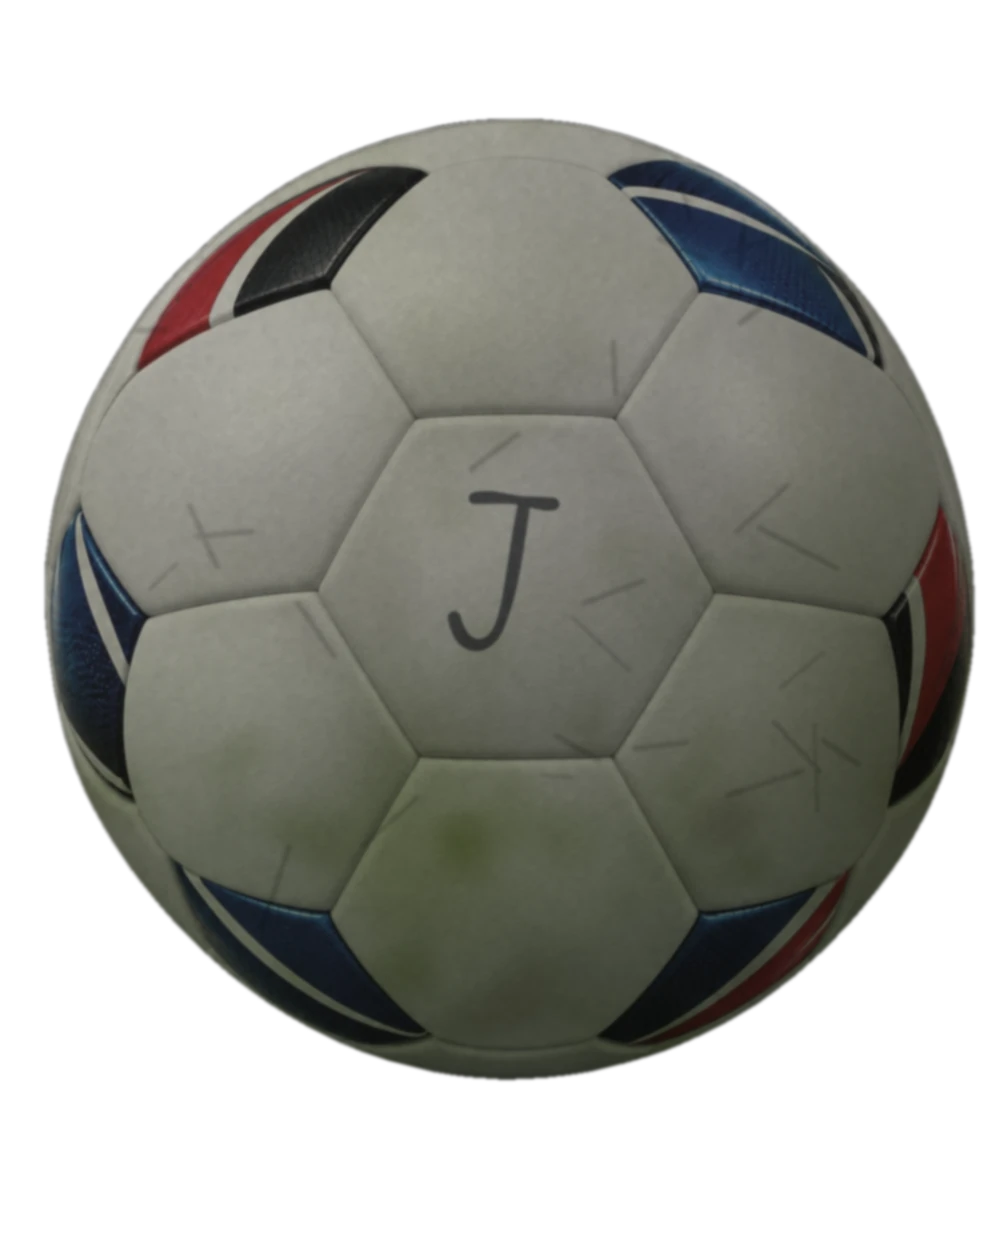
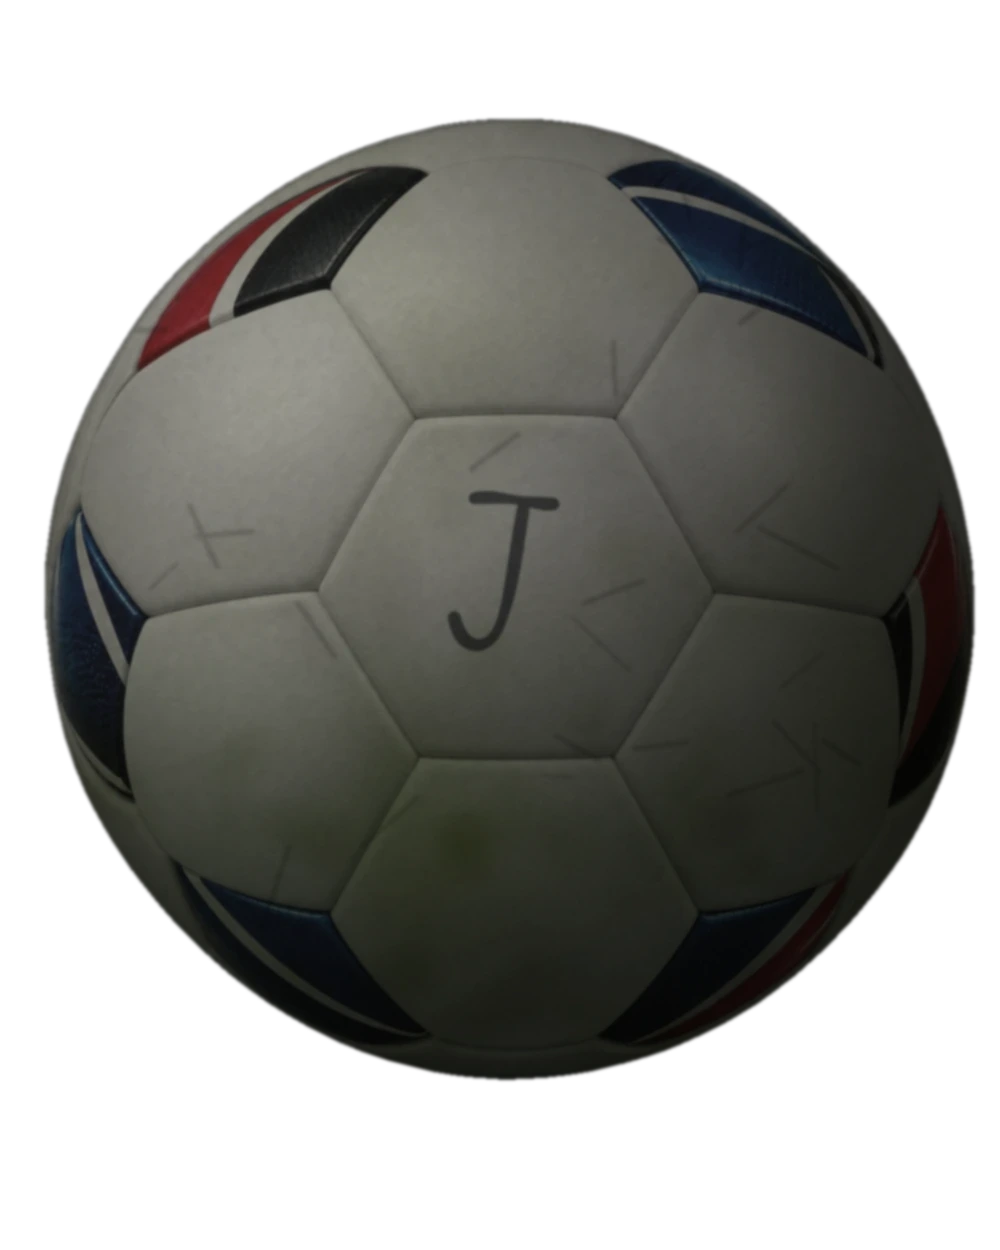
인트로: 공 던지기 제거, 페이드 전환 + J 공 그림자
Claude-Session: https://claude.ai/code/session_017rSKLJUKrC3BC1iaB8TaZM

diff --git a/src/app/globals.css b/src/app/globals.css
@@ -108,31 +108,22 @@ html { scroll-behavior: smooth; }
 .intro-wrap img, .intro-gwrap img { position: absolute; display: block; user-select: none; -webkit-user-drag: none; }
 .intro-bg { inset: 0; width: 100%; height: 100%; object-fit: cover; }
 .intro-black { opacity: clamp(0, calc(1 - (var(--p) - .06) * 5), 1); }
-.intro-grass { filter: brightness(.74) saturate(.92); opacity: clamp(0, calc((var(--p) - .26) * 3.2), 1); }
+.intro-grass { filter: brightness(.74) saturate(.92); opacity: clamp(0, calc((var(--p) - .12) * 3), 1); }
 .intro-vignette { position: absolute; inset: 0; background: radial-gradient(ellipse at 50% 55%, transparent 45%, rgba(0,0,0,.55) 100%); opacity: clamp(0, calc(1 - var(--p) * 3), 1); }
 
 .intro-gwrap { position: absolute; left: 50%; top: 50%; width: max(100vw, 200vh); aspect-ratio: 2 / 1;
   /* 카메라 무빙: 낮은 시점(비스듬히 보는 잔디)에서 위로 올라가며 위에서 내려다보는 시점으로 */
-  --k: calc(1 - clamp(0, (var(--p) - .24) / .46, 1));
+  --k: calc(1 - clamp(0, (var(--p) - .12) / .50, 1));
   transform: translate(-50%, -50%) perspective(1100px) rotateX(calc(var(--k) * 34deg)) scale(calc(1 + var(--k) * .55)) translateY(calc(var(--k) * -4%)); }
-.intro-roll, .intro-rollshadow { position: absolute; left: 67.64%; top: 49.57%; width: 7.75%; height: 19.37%;
-  --a: clamp(0, calc((var(--p) - .28) / .12), 1);
-  --b: clamp(0, calc((var(--p) - .40) / .08), 1);
-  --t: clamp(0, calc((var(--p) - .40) / .30), 1);
-  --e: calc(1 - (1 - var(--t)) * (1 - var(--t)));
-  --sx: -276%; --sy: -27%; --dhx: 31.2%; --dhy: -101.5%; --dgy: -80%; --sh: 1.52;
-  --sc: calc(var(--sh) + (.8 - var(--sh)) * var(--a) + .2 * var(--e));
-  --x: calc((1 - var(--e)) * var(--sx) + (1 - var(--a)) * var(--dhx)); }
-.intro-roll { transform-origin: 50% 50%; opacity: clamp(0, calc((var(--p) - .26) * 20), 1);
-  transform: translate(var(--x), calc((1 - var(--e)) * var(--sy) + (1 - var(--a) * var(--a)) * var(--dhy) - 35% * 4 * var(--b) * (1 - var(--b)))) scale(var(--sc)); }
-.intro-rollball { position: absolute; inset: 0; transform: rotate(calc(var(--a) * 360deg - (1 - var(--e)) * 360deg)); }
-.intro-rollball img { left: 0; top: 0; width: 100%; height: 100%; object-fit: fill; }
-.intro-rollball .intro-rc { filter: brightness(calc(.58 + .28 * var(--a))) saturate(calc(.52 + .26 * var(--a))) contrast(calc(.88 + .1 * var(--a))); }
-.intro-rollball .intro-re { opacity: clamp(0, calc((var(--p) - .44) / .26), 1); }
-/* 그림자: 빛은 왼쪽 위 → 그림자는 공 오른쪽 아래. 공과 같은 위치·크기로 따라가고, 공이 뜨면 옅고 작아지며 바닥에 닿으면 진해짐 */
-.intro-rollshadow { pointer-events: none; transform-origin: 50% 50%;
-  opacity: calc(clamp(0, (var(--p) - .26) * 20, 1) * (.25 + .75 * var(--a)) * (1 - .55 * 4 * var(--b) * (1 - var(--b))));
-  transform: translate(var(--x), calc((1 - var(--e)) * var(--sy) + (1 - var(--a) * var(--a)) * var(--dgy))) scale(calc(var(--sc) * (1 - .15 * 4 * var(--b) * (1 - var(--b))))); }
+.intro-roll, .intro-rollshadow { position: absolute; left: 67.64%; top: 49.57%; width: 7.75%; height: 19.37%; }
+.intro-roll { visibility: hidden; }
+/* 두 번째 공: 첫 공이 사라지는 동안 잔디 위에서 서서히 나타남 (그림자는 공 이미지에 구워져 있음) */
+.intro-rollfree { position: absolute; left: 0; top: 0; width: 0; height: 0; pointer-events: none; opacity: clamp(0, calc((var(--p) - .20) / .30), 1); }
+.intro-rollfree img { position: absolute; display: block; left: 0; top: 0; width: 100%; height: 100%; object-fit: fill; }
+.intro-rollball { position: absolute; inset: 0; }
+.intro-rollball .intro-re { opacity: clamp(0, calc((var(--p) - .42) / .22), 1); }
+/* 그림자: 빛은 왼쪽 위 → 그림자는 공 오른쪽 아래 */
+.intro-rollshadow { pointer-events: none; opacity: clamp(0, calc((var(--p) - .20) / .30), 1); }
 .intro-rollshadow i { position: absolute; display: block; border-radius: 50%; background: #000; }
 .intro-rollshadow .intro-w { left: 7.3%; top: 40.9%; width: 160%; height: 69.8%; opacity: .5; filter: blur(max(1.1vw, 2.2vh)); }
 .intro-rollshadow .intro-c { left: 14.9%; top: 69.9%; width: 83.9%; height: 23.2%; opacity: .85; filter: blur(max(.45vw, .9vh)); }
@@ -140,19 +131,18 @@ html { scroll-behavior: smooth; }
 .intro-ball {
   left: 32.57%; top: 12.39%; width: 33.89%; height: 84.73%; object-fit: fill;
   transform-origin: 50.9% 47.9%;
-  --q: clamp(0, calc((var(--p) - .08) / .2), 1);
-  --qq: calc(1 - (1 - var(--q)) * (1 - var(--q)));
+  --q: clamp(0, calc((var(--p) - .06) / .26), 1);
   --s: var(--q);
   filter: brightness(calc(1 - var(--s) * .3)) saturate(calc(1 - var(--s) * .38)) contrast(calc(1 - var(--s) * .12));
-  transform: translate(calc(var(--qq) * 12%), calc(var(--qq) * -30%)) scale(calc(1 - var(--q) * .5));
-  opacity: clamp(0, calc((.3 - var(--p)) * 20), 1);
+  transform: scale(calc(1 - var(--q) * .08));
+  opacity: calc(1 - var(--q));
 }
 
 /* 공과 같이 이동하는 그림자 (왼쪽에서 오른쪽으로 공을 따라감) */
 .intro-bshadow { position: absolute; left: 32.57%; top: 12.39%; width: 33.89%; height: 84.73%; transform-origin: 50.9% 47.9%; pointer-events: none;
-  --q: clamp(0, calc((var(--p) - .08) / .2), 1);
+  --q: clamp(0, calc((var(--p) - .06) / .26), 1);
   --s: var(--q);
-  opacity: clamp(0, calc(1 - var(--q) * 1.5), 1); }
+  opacity: clamp(0, calc(1 - var(--q) * 1.3), 1); }
 .intro-bshadow i { position: absolute; display: block; border-radius: 50%; background: #000; }
 .intro-bshadow .intro-c { left: 11.7%; width: 85.7%; top: 84.6%; height: 4.8%; filter: blur(.62cqw); opacity: calc(.9 - var(--s) * .3); }
 .intro-bshadow .intro-w { left: 3.3%; width: 115.5%; top: 83.3%; height: 8.5%; filter: blur(1.5cqw); opacity: calc(.45 + var(--s) * .2); transform: scaleX(calc(1 + var(--q) * .3)); transform-origin: 50% 50%; }
@@ -162,12 +152,12 @@ html { scroll-behavior: smooth; }
 .intro-labels a { position: absolute; transform: translate(-50%, -50%); width: 11cqw; height: 5.5cqw; display: block; border-radius: 1cqw; color: transparent; font-size: 1px; overflow: hidden; text-decoration: none; }
 .intro-labels a { outline: none; -webkit-tap-highlight-color: transparent; cursor: pointer; }
 .intro-labels a:hover, .intro-labels a:focus, .intro-labels a:active { background: none; }
-.intro-ball-lab { opacity: min(clamp(0, calc(1 - var(--p) * 2.8), 1), clamp(0, calc((.3 - var(--p)) * 20), 1)) !important; filter: brightness(calc(1 - var(--s) * .3)) saturate(calc(1 - var(--s) * .38)) blur(calc(var(--p) * 20px)) !important; }
+.intro-ball-lab { opacity: calc(1 - var(--q)) !important; filter: brightness(calc(1 - var(--s) * .3)) saturate(calc(1 - var(--s) * .38)) !important; }
 .intro-stage[data-scrolled="1"] .intro-labels { pointer-events: none; }
 
 .intro-word { position: absolute; top: 52.6%; transform: translateY(-50%); font-size: 5.4cqw; font-weight: 600; line-height: 1; letter-spacing: -.01em; white-space: nowrap; opacity: clamp(0, calc(1 - var(--p) * 3), 1); }
-.intro-word.intro-l { right: 70.5%; transform: translate(calc(var(--p) * -14cqw), -50%); }
-.intro-word.intro-r { left: 70.5%; transform: translate(calc(var(--p) * 14cqw), -50%); }
+.intro-word.l { right: 70.5%; transform: translate(calc(var(--p) * -14cqw), -50%); }
+.intro-word.r { left: 70.5%; transform: translate(calc(var(--p) * 14cqw), -50%); }
 
 .intro-sidenav { position: absolute; z-index: 3; left: clamp(20px, 5.5vw, 90px); top: 22%; display: flex; flex-direction: column; gap: 6px; font-size: clamp(13px, 1.5vw, 19px); font-weight: 300; letter-spacing: .04em; }
 .intro-sidenav a { color: #fff; text-decoration: none; display: block; opacity: clamp(0, calc((var(--p) - .55) * 5 - var(--i) * .35), 1); transform: translateX(calc((1 - var(--p)) * 80px)); }
@@ -179,14 +169,13 @@ html { scroll-behavior: smooth; }
 
 
 @media (max-width: 700px) {
-  .intro-roll, .intro-rollshadow { --dhx: 186.7%; --dhy: -73.4%; --dgy: -55%; --sh: .755; }
   .intro-wrap { width: 230vw; }
-  .intro-gwrap { height: 100%; width: calc(100svh * 2); left: calc((100vw - 100svh * 2) * .74); top: 0; transform: perspective(900px) rotateX(calc(var(--k) * 30deg)) scale(calc(1 + var(--k) * .5)); }
-  .intro-grass { filter: brightness(.74) saturate(.92); opacity: clamp(0, calc((var(--p) - .26) * 3.2), 1); }
-  .intro-ball-lab { opacity: min(clamp(0, calc(1 - var(--p) * 2.8), 1), clamp(0, calc((.3 - var(--p)) * 20), 1)) !important; filter: brightness(calc(1 - var(--s) * .3)) saturate(calc(1 - var(--s) * .38)) blur(calc(var(--p) * 20px)) !important; }
+  .intro-gwrap { height: 100%; width: calc(100svh * 2); left: calc((100vw - 100svh * 2) * .74); top: 0; transform: perspective(900px) rotateX(calc(var(--k) * 30deg)) scale(calc(1 + var(--k) * .22)); }
+  .intro-grass { filter: brightness(.74) saturate(.92); opacity: clamp(0, calc((var(--p) - .12) * 3), 1); }
+  .intro-ball-lab { opacity: calc(1 - var(--q)) !important; filter: brightness(calc(1 - var(--s) * .3)) saturate(calc(1 - var(--s) * .38)) !important; }
   .intro-word { font-size: clamp(34px, 12vw, 60px); left: 50% !important; right: auto !important; }
-  .intro-word.intro-l { top: 3%; transform: translate(-50%, calc(var(--p) * -30vh)); }
-  .intro-word.intro-r { top: 99%; transform: translate(-50%, calc(var(--p) * 30vh)); }
+  .intro-word.l { top: 3%; transform: translate(-50%, calc(var(--p) * -30vh)); }
+  .intro-word.r { top: 99%; transform: translate(-50%, calc(var(--p) * 30vh)); }
   .intro-labels a { position: absolute; transform: translate(-50%, -50%); width: 11cqw; height: 5.5cqw; display: block; border-radius: 1cqw; color: transparent; font-size: 1px; overflow: hidden; text-decoration: none; }
   .intro-cta { left: 50%; transform: translateX(-50%); bottom: 5%; white-space: nowrap; }
   .intro-title { right: 50%; transform: translateX(50%); bottom: 16%; }

diff --git a/src/components/IntroHero.tsx b/src/components/IntroHero.tsx
@@ -30,6 +30,8 @@ export default function IntroHero() {
   const [modalOpen, setModalOpen] = useState(false);
   const rootRef = useRef<HTMLElement>(null);
   const stageRef = useRef<HTMLDivElement>(null);
+  const markRef = useRef<HTMLDivElement>(null);
+  const freeRef = useRef<HTMLDivElement>(null);
 
   useEffect(() => {
     const root = rootRef.current;
@@ -45,6 +47,19 @@ export default function IntroHero() {
       const p = reduce ? 1 : total > 0 ? Math.min(1, Math.max(0, -r.top / total)) : 0;
       root.style.setProperty("--p", p.toFixed(4));
       stage.dataset.scrolled = p > 0.25 ? "1" : "0";
+      // 잔디에 나타나는 공은 기울어지는 잔디 밖에 따로 그려서(찌그러짐 방지), 잔디 위 표식 위치를 따라가게 함
+      const m = markRef.current;
+      const f = freeRef.current;
+      if (m && f) {
+        const sr = stage.getBoundingClientRect();
+        const mr = m.getBoundingClientRect();
+        const w = mr.width;
+        const h = w * 1.25;
+        f.style.width = w + "px";
+        f.style.height = h + "px";
+        f.style.left = mr.left - sr.left + "px";
+        f.style.top = mr.top + mr.height * 0.48 - sr.top - h * 0.48 + "px";
+      }
     }
     function onScroll() {
       if (!raf) raf = requestAnimationFrame(update);
@@ -85,12 +100,7 @@ export default function IntroHero() {
               <i className="intro-w" />
               <i className="intro-c" />
             </div>
-            <div className="intro-roll">
-              <div className="intro-rollball">
-                <img className="intro-rc" src="/images/intro/ball-roll.webp" alt="" draggable={false} />
-                <img className="intro-re" src="/images/intro/ball-end.webp" alt="" draggable={false} />
-              </div>
-            </div>
+            <div ref={markRef} className="intro-roll" />
           </div>
 
           <div className="intro-wrap">
@@ -113,6 +123,12 @@ export default function IntroHero() {
               </Link>
             ))}
           </nav>
+          <div ref={freeRef} className="intro-rollfree">
+            <div className="intro-rollball">
+              <img className="intro-rc" src="/images/intro/ball-roll.webp" alt="" draggable={false} />
+              <img className="intro-re" src="/images/intro/ball-end.webp" alt="" draggable={false} />
+            </div>
+          </div>
           <div className="intro-fade" />
           <div className="intro-title">DOUBLE J SPORTS</div>
           <button className="intro-cta" type="button" onClick={() => setModalOpen(true)}>
